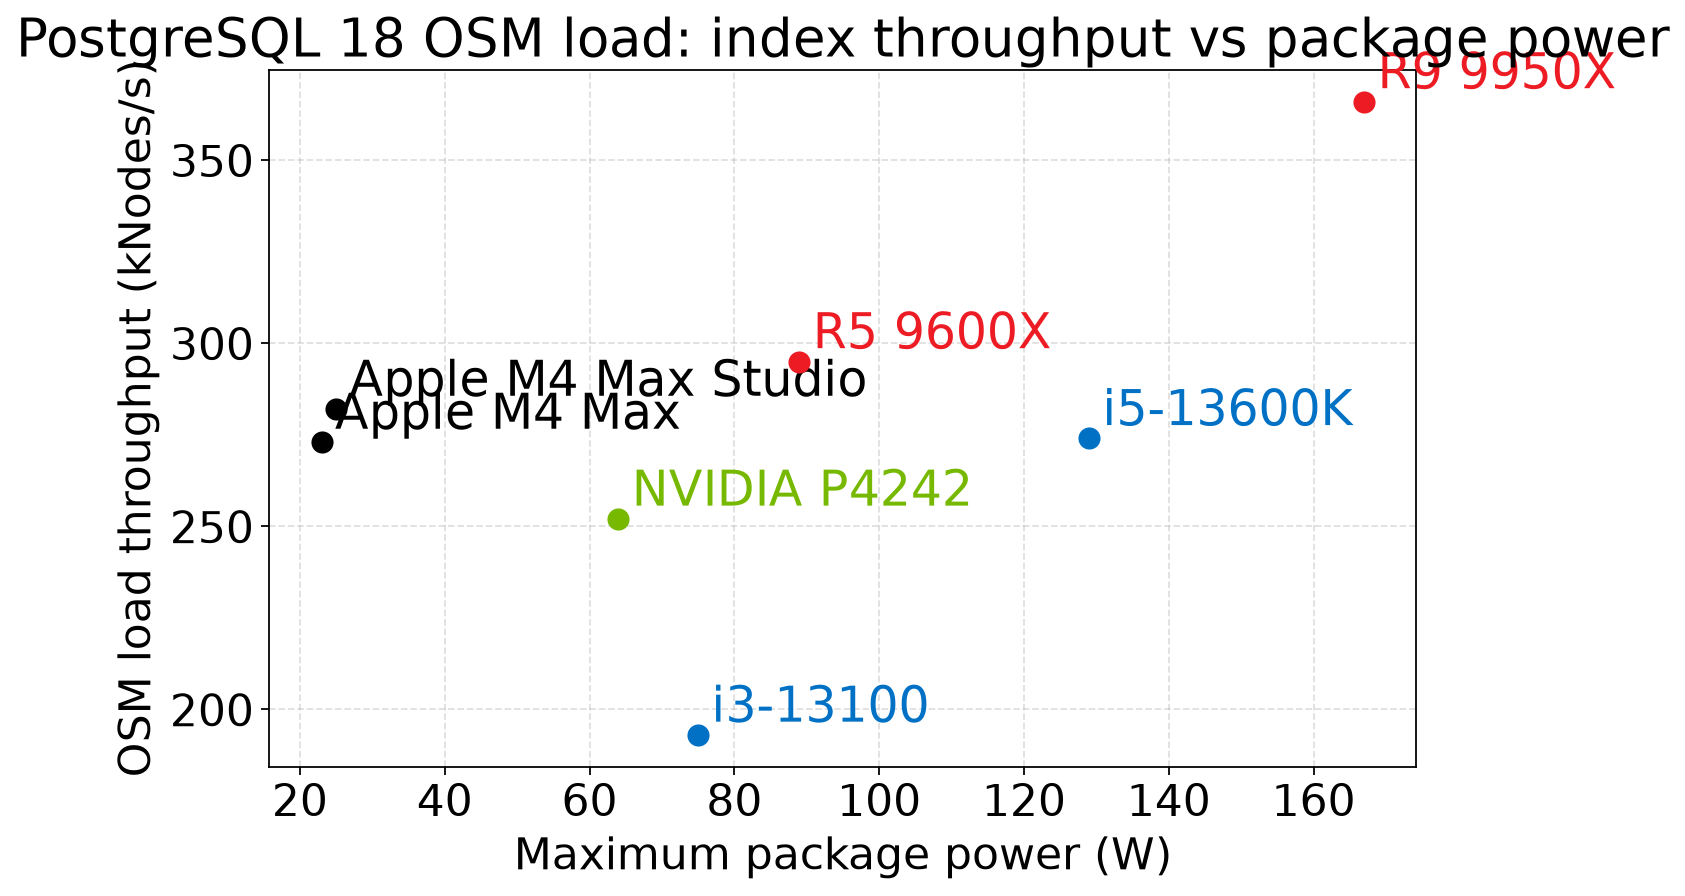
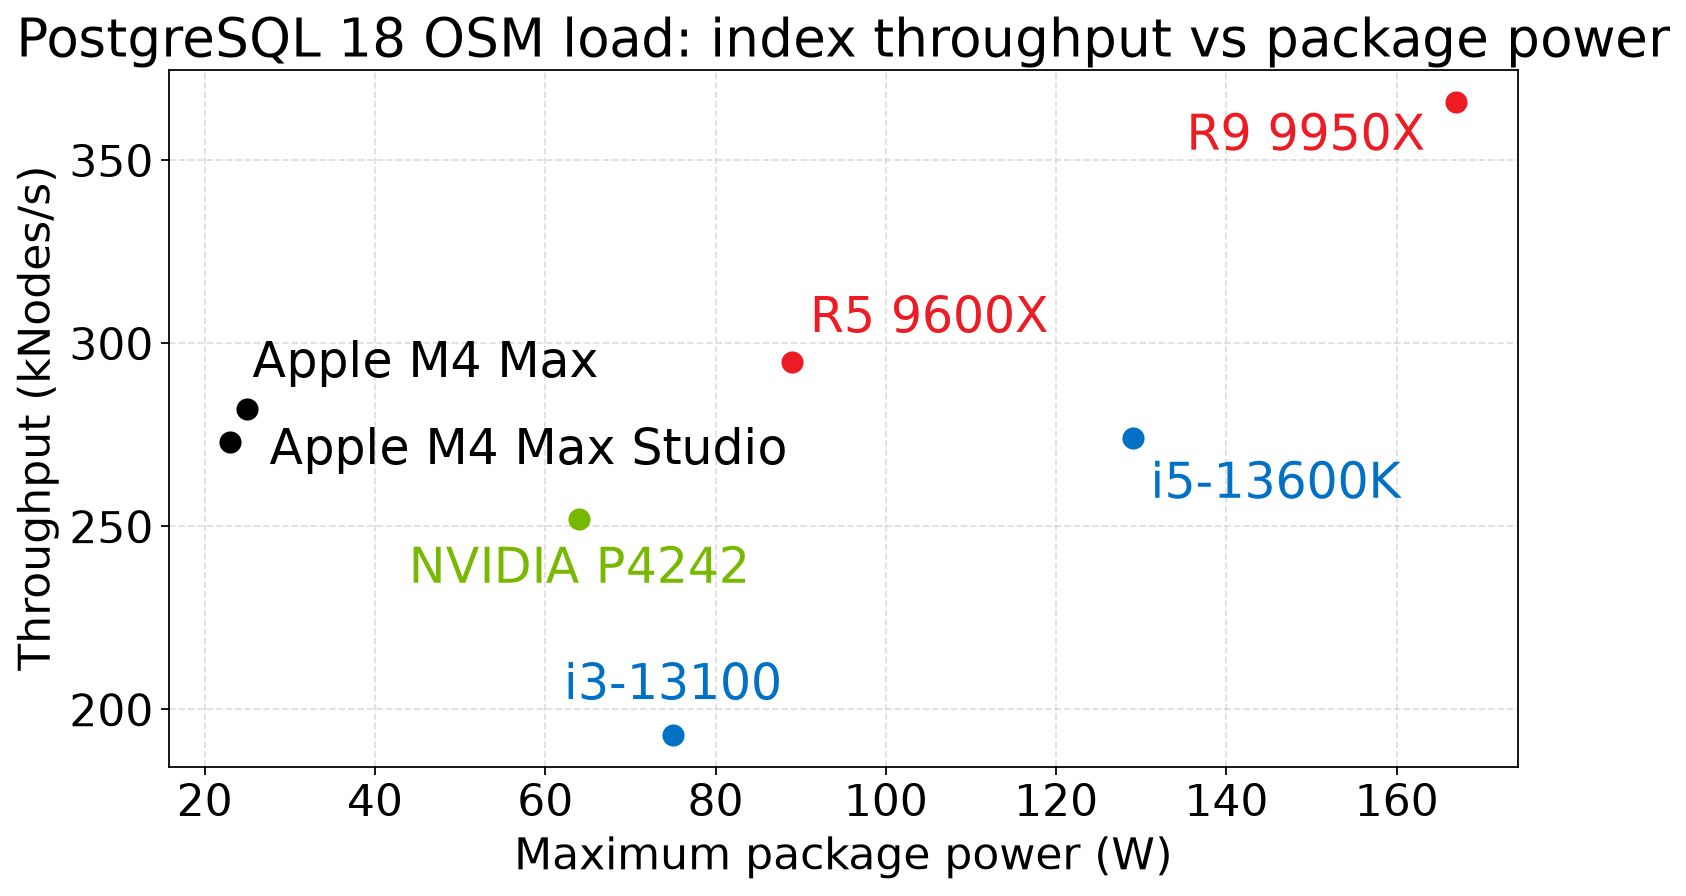
Improve PG18 OSM power scatter label placement and axis text.
Add overlap-aware label layout with per-CPU overrides for crowded points,
and shorten the throughput axis label now covered by the chart title.

diff --git a/reports/label_layout.py b/reports/label_layout.py
@@ -1,0 +1,262 @@
+"""Scatter label placement with overlap avoidance inside the plot grid."""
+
+from __future__ import annotations
+
+from collections.abc import Iterable, Mapping, Sequence
+from dataclasses import dataclass
+
+from matplotlib.axes import Axes
+from matplotlib.text import Annotation, Text
+from matplotlib.transforms import Bbox
+
+OUTSIDE_PLOT_PENALTY = 1e12
+
+
+@dataclass(frozen=True)
+class LabelOffset:
+    dx: float
+    dy: float
+    ha: str = "left"
+    va: str = "bottom"
+
+
+def candidate_offsets(fontsize: float) -> list[LabelOffset]:
+    """Modest offsets that stay near the marker inside the plot grid."""
+    step = max(fontsize * 0.45, 8)
+    return [
+        LabelOffset(step, step),
+        LabelOffset(step, -step, va="top"),
+        LabelOffset(-step, step, ha="right"),
+        LabelOffset(-step, -step, ha="right", va="top"),
+        LabelOffset(0, step * 1.1, ha="center"),
+        LabelOffset(0, -step * 1.1, ha="center", va="top"),
+        LabelOffset(step * 1.1, 0, va="center"),
+        LabelOffset(-step * 1.1, 0, ha="right", va="center"),
+        LabelOffset(step * 1.4, step * 0.5),
+        LabelOffset(-step * 1.4, step * 0.5, ha="right"),
+        LabelOffset(step * 1.4, -step * 0.5, va="top"),
+        LabelOffset(-step * 1.4, -step * 0.5, ha="right", va="top"),
+    ]
+
+
+def _plot_area_bbox(ax: Axes, renderer, inset: float = 6) -> Bbox:
+    bbox = ax.patch.get_window_extent(renderer)
+    return Bbox.from_extents(
+        bbox.x0 + inset,
+        bbox.y0 + inset,
+        bbox.x1 - inset,
+        bbox.y1 - inset,
+    )
+
+
+def _point_bbox(ax: Axes, x: float, y: float, radius: float = 14) -> Bbox:
+    px, py = ax.transData.transform((x, y))
+    return Bbox.from_extents(px - radius, py - radius, px + radius, py + radius)
+
+
+def _expanded_bbox(annotation: Annotation, renderer, pad: float = 1.05) -> Bbox:
+    return annotation.get_window_extent(renderer).expanded(pad, pad)
+
+
+def _overlap_area(a: Bbox, b: Bbox) -> float:
+    if not a.overlaps(b):
+        return 0.0
+    x0 = max(a.x0, b.x0)
+    y0 = max(a.y0, b.y0)
+    x1 = min(a.x1, b.x1)
+    y1 = min(a.y1, b.y1)
+    return max(0.0, x1 - x0) * max(0.0, y1 - y0)
+
+
+def _inside_plot(label_bbox: Bbox, plot_bbox: Bbox) -> bool:
+    return (
+        plot_bbox.x0 <= label_bbox.x0
+        and plot_bbox.y0 <= label_bbox.y0
+        and label_bbox.x1 <= plot_bbox.x1
+        and label_bbox.y1 <= plot_bbox.y1
+    )
+
+
+def _outside_plot_penalty(label_bbox: Bbox, plot_bbox: Bbox) -> float:
+    if _inside_plot(label_bbox, plot_bbox):
+        return 0.0
+    return OUTSIDE_PLOT_PENALTY
+
+
+def _score_offset(
+    annotation: Annotation,
+    renderer,
+    plot_bbox: Bbox,
+    placed_bboxes: Sequence[Bbox],
+    point_bboxes: Sequence[Bbox],
+) -> float:
+    label_bbox = _expanded_bbox(annotation, renderer)
+    score = _outside_plot_penalty(label_bbox, plot_bbox)
+    if score:
+        return score
+    for bbox in placed_bboxes:
+        score += _overlap_area(label_bbox, bbox) * 4.0
+    for bbox in point_bboxes:
+        score += _overlap_area(label_bbox, bbox) * 2.0
+    return score
+
+
+def place_point_labels(
+    ax: Axes,
+    labels: Iterable[str],
+    xs: Iterable[float],
+    ys: Iterable[float],
+    colors: Iterable[str],
+    fontsize: float,
+    *,
+    overrides: Mapping[str, LabelOffset] | None = None,
+) -> list[Annotation]:
+    """Place scatter labels inside the plot grid, minimizing overlap."""
+    label_list = list(labels)
+    x_list = list(xs)
+    y_list = list(ys)
+    color_list = list(colors)
+    if not (len(label_list) == len(x_list) == len(y_list) == len(color_list)):
+        raise ValueError("labels, xs, ys, and colors must have the same length")
+
+    density = []
+    for i in range(len(label_list)):
+        neighbors = sum(
+            1
+            for j in range(len(label_list))
+            if i != j
+            and abs(x_list[i] - x_list[j]) < max(abs(x_list[i]), 1) * 0.08
+            and abs(y_list[i] - y_list[j]) < max(abs(y_list[i]), 1) * 0.08
+        )
+        density.append((neighbors, i))
+    order = [i for _, i in sorted(density, reverse=True)]
+
+    scatter_offsets = candidate_offsets(fontsize)
+    override_map = overrides or {}
+    annotations: list[Annotation | None] = [None] * len(label_list)
+    fig = ax.figure
+    fig.canvas.draw()
+    renderer = fig.canvas.get_renderer()
+    plot_bbox = _plot_area_bbox(ax, renderer)
+    point_bboxes = [_point_bbox(ax, x, y) for x, y in zip(x_list, y_list)]
+
+    placed_bboxes: list[Bbox] = []
+    for idx in order:
+        text = label_list[idx]
+        x = x_list[idx]
+        y = y_list[idx]
+        color = color_list[idx]
+        if text in override_map:
+            override = override_map[text]
+            trial = ax.annotate(
+                text,
+                xy=(x, y),
+                xytext=(override.dx, override.dy),
+                textcoords="offset points",
+                fontsize=fontsize,
+                color=color,
+                ha=override.ha,
+                va=override.va,
+                clip_on=True,
+            )
+            fig.canvas.draw()
+            override_score = _score_offset(
+                trial, renderer, plot_bbox, placed_bboxes, point_bboxes
+            )
+            trial.remove()
+            candidates = (
+                [override]
+                if override_score < OUTSIDE_PLOT_PENALTY
+                else scatter_offsets
+            )
+        else:
+            candidates = scatter_offsets
+
+        best_offset: LabelOffset | None = None
+        best_score = float("inf")
+        for offset in candidates:
+            ann = ax.annotate(
+                text,
+                xy=(x, y),
+                xytext=(offset.dx, offset.dy),
+                textcoords="offset points",
+                fontsize=fontsize,
+                color=color,
+                ha=offset.ha,
+                va=offset.va,
+                clip_on=True,
+            )
+            fig.canvas.draw()
+            score = _score_offset(ann, renderer, plot_bbox, placed_bboxes, point_bboxes)
+            if score < best_score:
+                best_score = score
+                best_offset = offset
+            ann.remove()
+
+        if best_offset is None or best_score >= OUTSIDE_PLOT_PENALTY:
+            raise RuntimeError(f"Could not place label for {text!r} inside plot grid")
+        if best_score > 0:
+            print(f"Warning: residual label overlap for {text!r} (score={best_score:.0f})")
+        final_ann = ax.annotate(
+            text,
+            xy=(x, y),
+            xytext=(best_offset.dx, best_offset.dy),
+            textcoords="offset points",
+            fontsize=fontsize,
+            color=color,
+            ha=best_offset.ha,
+            va=best_offset.va,
+            clip_on=True,
+        )
+        annotations[idx] = final_ann
+        fig.canvas.draw()
+        placed_bboxes.append(_expanded_bbox(final_ann, renderer))
+
+    return [ann for ann in annotations if ann is not None]
+
+
+def _data_x_right_of_point(ax: Axes, x: float, y: float, gap_points: float) -> float:
+    px, py = ax.transData.transform((x, y))
+    px += gap_points * ax.figure.dpi / 72.0
+    x_data, _ = ax.transData.inverted().transform((px, py))
+    return x_data
+
+
+def place_label_at_grid_bottom(
+    ax: Axes,
+    x: float,
+    y: float,
+    text: str,
+    color: str,
+    fontsize: float,
+    *,
+    x_gap_points: float,
+    align_fraction: float = 0.28,
+) -> Text:
+    """Place label to the right of a point, low in the grid and near the marker row."""
+    fig = ax.figure
+    fig.canvas.draw()
+    renderer = fig.canvas.get_renderer()
+    plot_bbox = _plot_area_bbox(ax, renderer)
+    x_data = _data_x_right_of_point(ax, x, y, x_gap_points)
+    ymin, ymax = ax.get_ylim()
+    y_data = ymin + (y - ymin) * align_fraction
+
+    label = ax.text(
+        x_data,
+        y_data,
+        text,
+        transform=ax.transData,
+        fontsize=fontsize,
+        color=color,
+        ha="left",
+        va="bottom",
+        clip_on=True,
+    )
+    fig.canvas.draw()
+    label_bbox = _expanded_bbox(label, renderer)
+    if not _inside_plot(label_bbox, plot_bbox):
+        label.set_position((x_data, ymin + (ymax - ymin) * 0.01))
+        label.set_verticalalignment("bottom")
+        fig.canvas.draw()
+    return label

diff --git a/reports/osm-power.py b/reports/osm-power.py
@@ -15,6 +15,7 @@ Usage:
 from __future__ import annotations
 
 import argparse
+import math
 import sys
 from pathlib import Path
 
@@ -26,6 +27,7 @@ from matplotlib.ticker import ScalarFormatter
 
 sys.path.insert(0, str(Path(__file__).resolve().parent))
 from snapshot_table import load_snapshot_table
+from label_layout import LabelOffset, place_label_at_grid_bottom, place_point_labels
 from pg18_style import LEGEND_MARKER_SIZE, POINT_LABEL_FONTSIZE, use_pg18_style
 
 REPO_ROOT = Path(__file__).resolve().parents[1]
@@ -37,6 +39,30 @@ DEFAULT_EFFICIENCY = REPO_ROOT / "docs/images/pg18-osm-power-efficiency.png"
 
 DEFAULT_POINT_COLOR = "#333333"
 INDEX_BAR_ALPHA = 0.45
+SCATTER_MARKER_SIZE = 80
+
+
+def _marker_x_gap(gap: float = 12) -> float:
+    return math.sqrt(SCATTER_MARKER_SIZE / math.pi) + gap
+
+
+# Fine-tune label offsets when automatic placement still crowds a chart.
+SINGLE_CHART_LABEL_OVERRIDES: dict[str, dict[str, LabelOffset]] = {
+    "index_kips": {
+        "Apple M4 Max": LabelOffset(10, 24, ha="left", va="bottom"),
+        "Apple M4 Max Studio": LabelOffset(10, -8, va="top"),
+        "i5-13600K": LabelOffset(8, -10, va="top"),
+        "R5 9600X": LabelOffset(8, 8),
+        "NVIDIA P4242": LabelOffset(0, -12, ha="center", va="top"),
+    },
+    "nodes_kips": {
+        "Apple M4 Max": LabelOffset(_marker_x_gap(-4), 6, ha="left", va="bottom"),
+        "Apple M4 Max Studio": LabelOffset(_marker_x_gap(), 0, ha="left", va="center"),
+        "i5-13600K": LabelOffset(8, -10, va="top"),
+        "R5 9600X": LabelOffset(8, 8),
+        "i3-13100": LabelOffset(8, -10, va="top"),
+    },
+}
 
 
 def row_color(row: pd.Series) -> str:
@@ -118,7 +144,7 @@ def plot_throughput_vs_power(df: pd.DataFrame, output: Path, show: bool = False)
         )
 
     ax.set_xlabel("Maximum package power (W)")
-    ax.set_ylabel("OSM load throughput (kNodes/s)")
+    ax.set_ylabel("Throughput (kNodes/s)")
     ax.set_title(
         "PostgreSQL 18 OSM load: throughput vs package power\n"
         "Vertical bars connect index and total speed at each CPU"
@@ -156,26 +182,41 @@ def plot_single_throughput_vs_power(
         ax.scatter(
             row["max_pkg"],
             row[metric_col],
-            s=80,
+            s=SCATTER_MARKER_SIZE,
             color=color,
             zorder=3,
         )
-        ax.annotate(
-            row["cpu"],
-            xy=(row["max_pkg"], row[metric_col]),
-            xytext=(6, 6),
-            textcoords="offset points",
-            fontsize=POINT_LABEL_FONTSIZE,
-            color=color,
-        )
 
     ax.set_xlabel("Maximum package power (W)")
-    ax.set_ylabel("OSM load throughput (kNodes/s)")
+    ax.set_ylabel("Throughput (kNodes/s)")
     ax.set_title(title)
     ax.grid(True, linestyle="--", alpha=0.4)
     plain_axis(ax)
 
     fig.tight_layout()
+    label_df = df[df["cpu"] != "NVIDIA P4242"] if metric_col == "nodes_kips" else df
+    place_point_labels(
+        ax,
+        label_df["cpu"],
+        label_df["max_pkg"],
+        label_df[metric_col],
+        [row_color(row) for _, row in label_df.iterrows()],
+        POINT_LABEL_FONTSIZE,
+        overrides=SINGLE_CHART_LABEL_OVERRIDES.get(metric_col),
+    )
+    if metric_col == "nodes_kips":
+        nvidia = df[df["cpu"] == "NVIDIA P4242"].iloc[0]
+        place_label_at_grid_bottom(
+            ax,
+            nvidia["max_pkg"],
+            nvidia["nodes_kips"],
+            nvidia["cpu"],
+            row_color(nvidia),
+            POINT_LABEL_FONTSIZE,
+            x_gap_points=_marker_x_gap(),
+            align_fraction=0.14,
+        )
+
     output.parent.mkdir(parents=True, exist_ok=True)
     fig.savefig(output, dpi=160, bbox_inches="tight")
     print(f"Wrote {output}")
